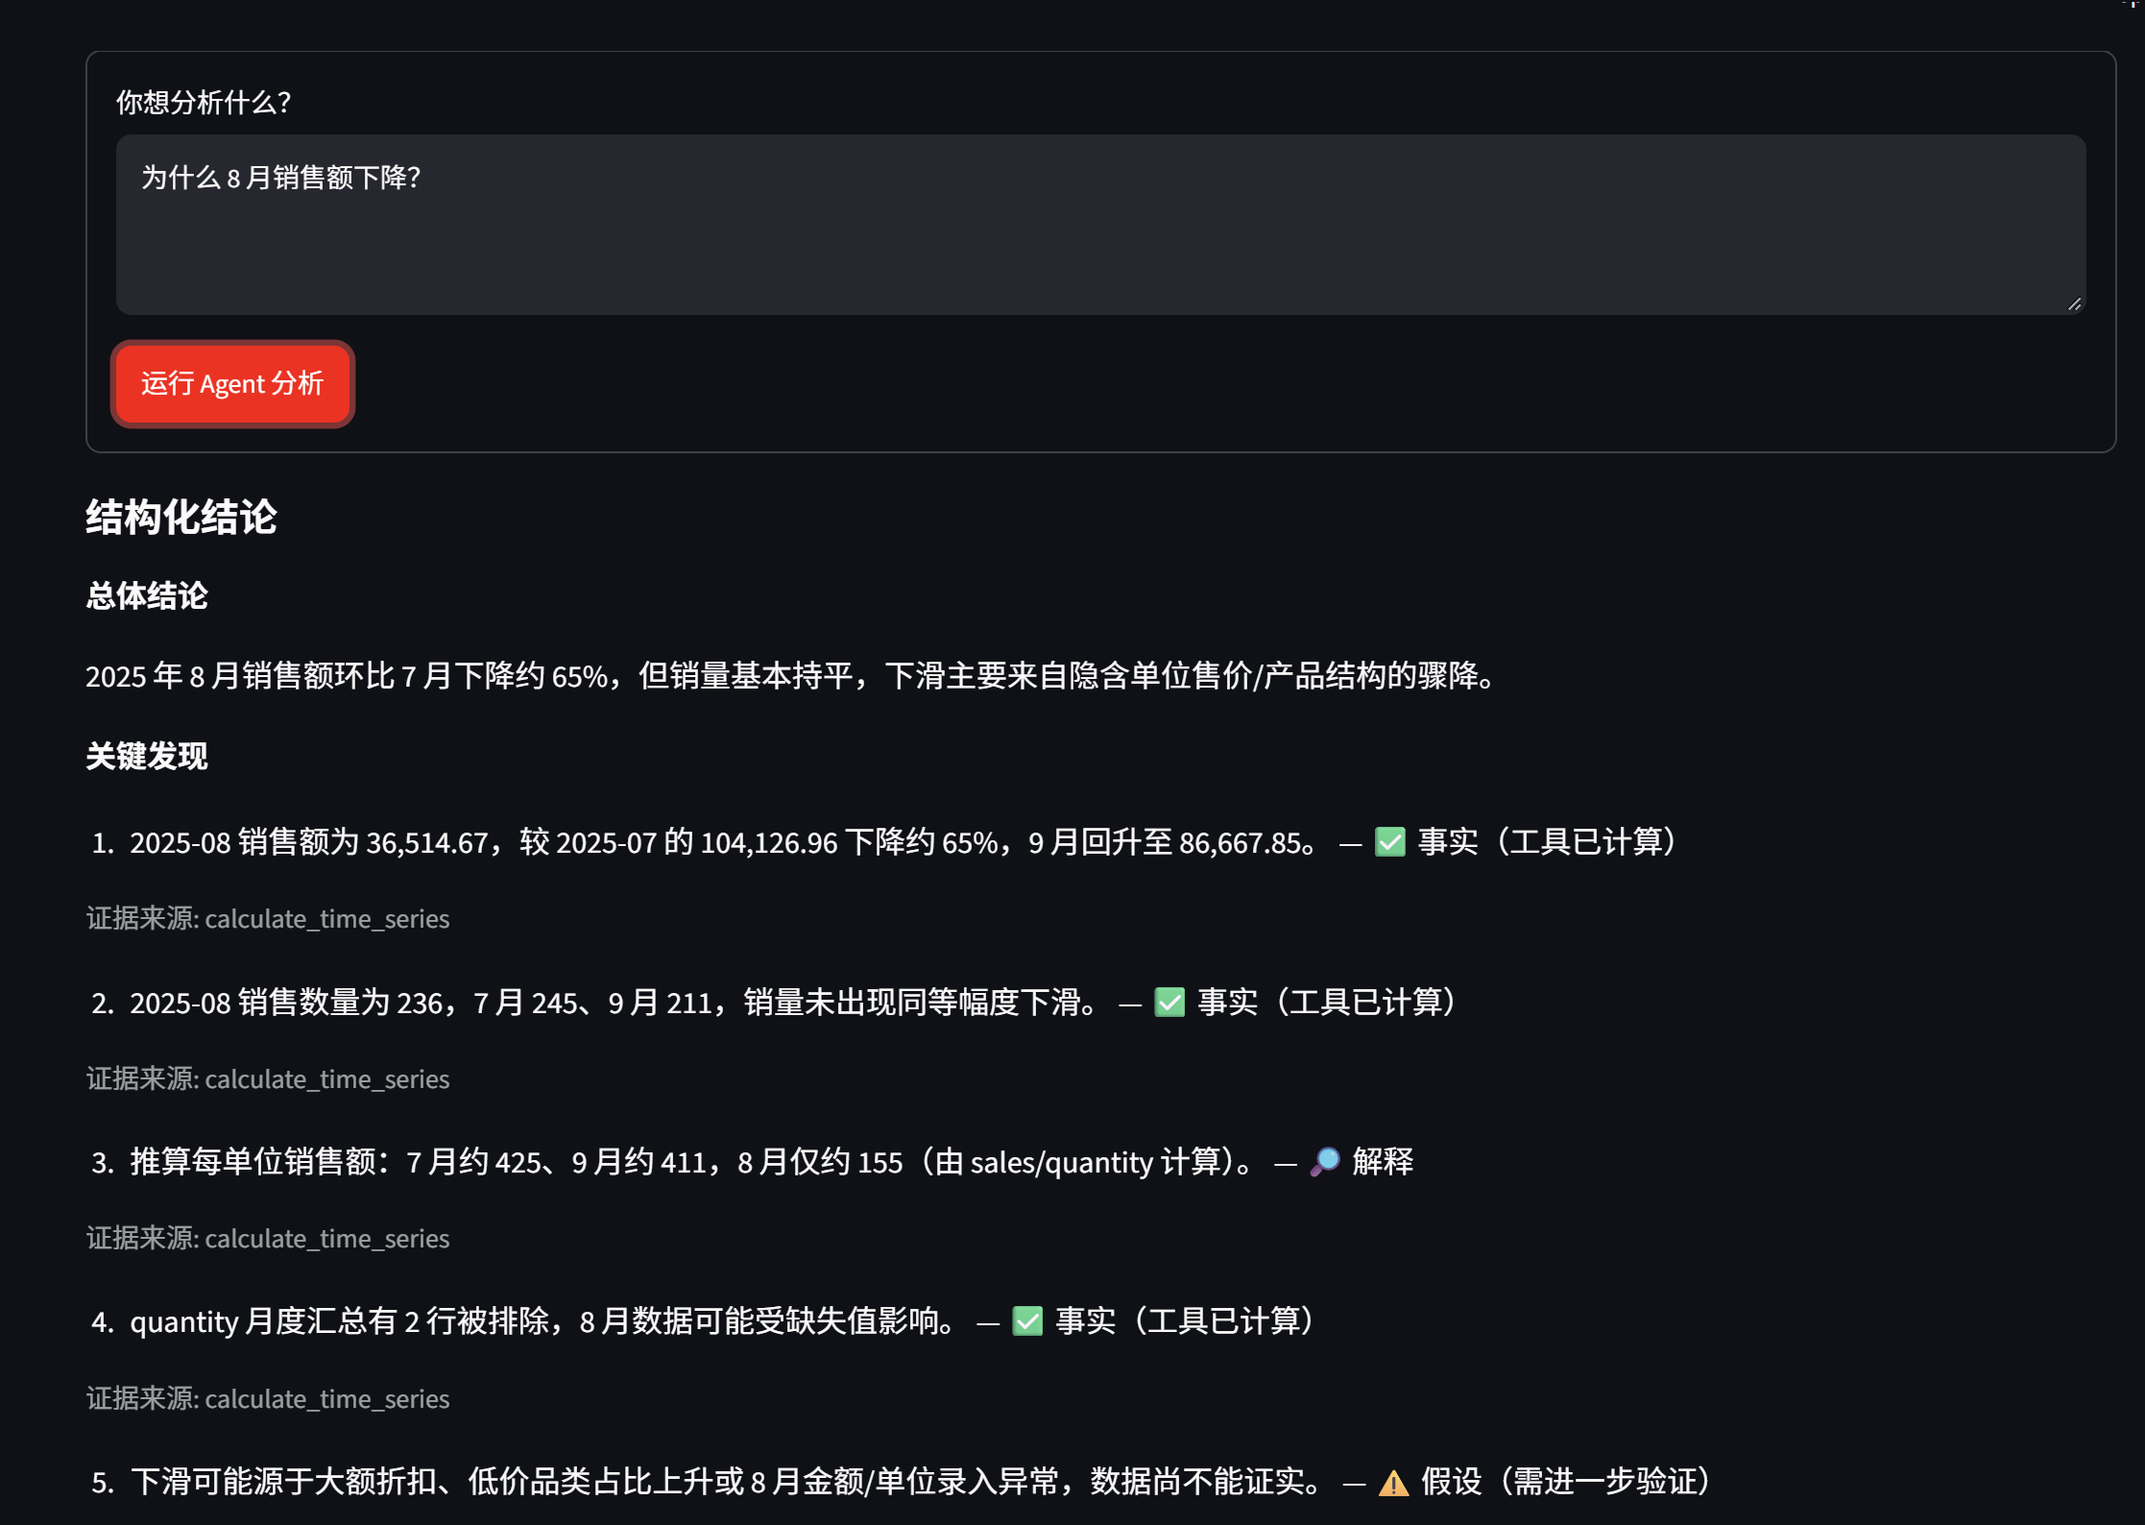
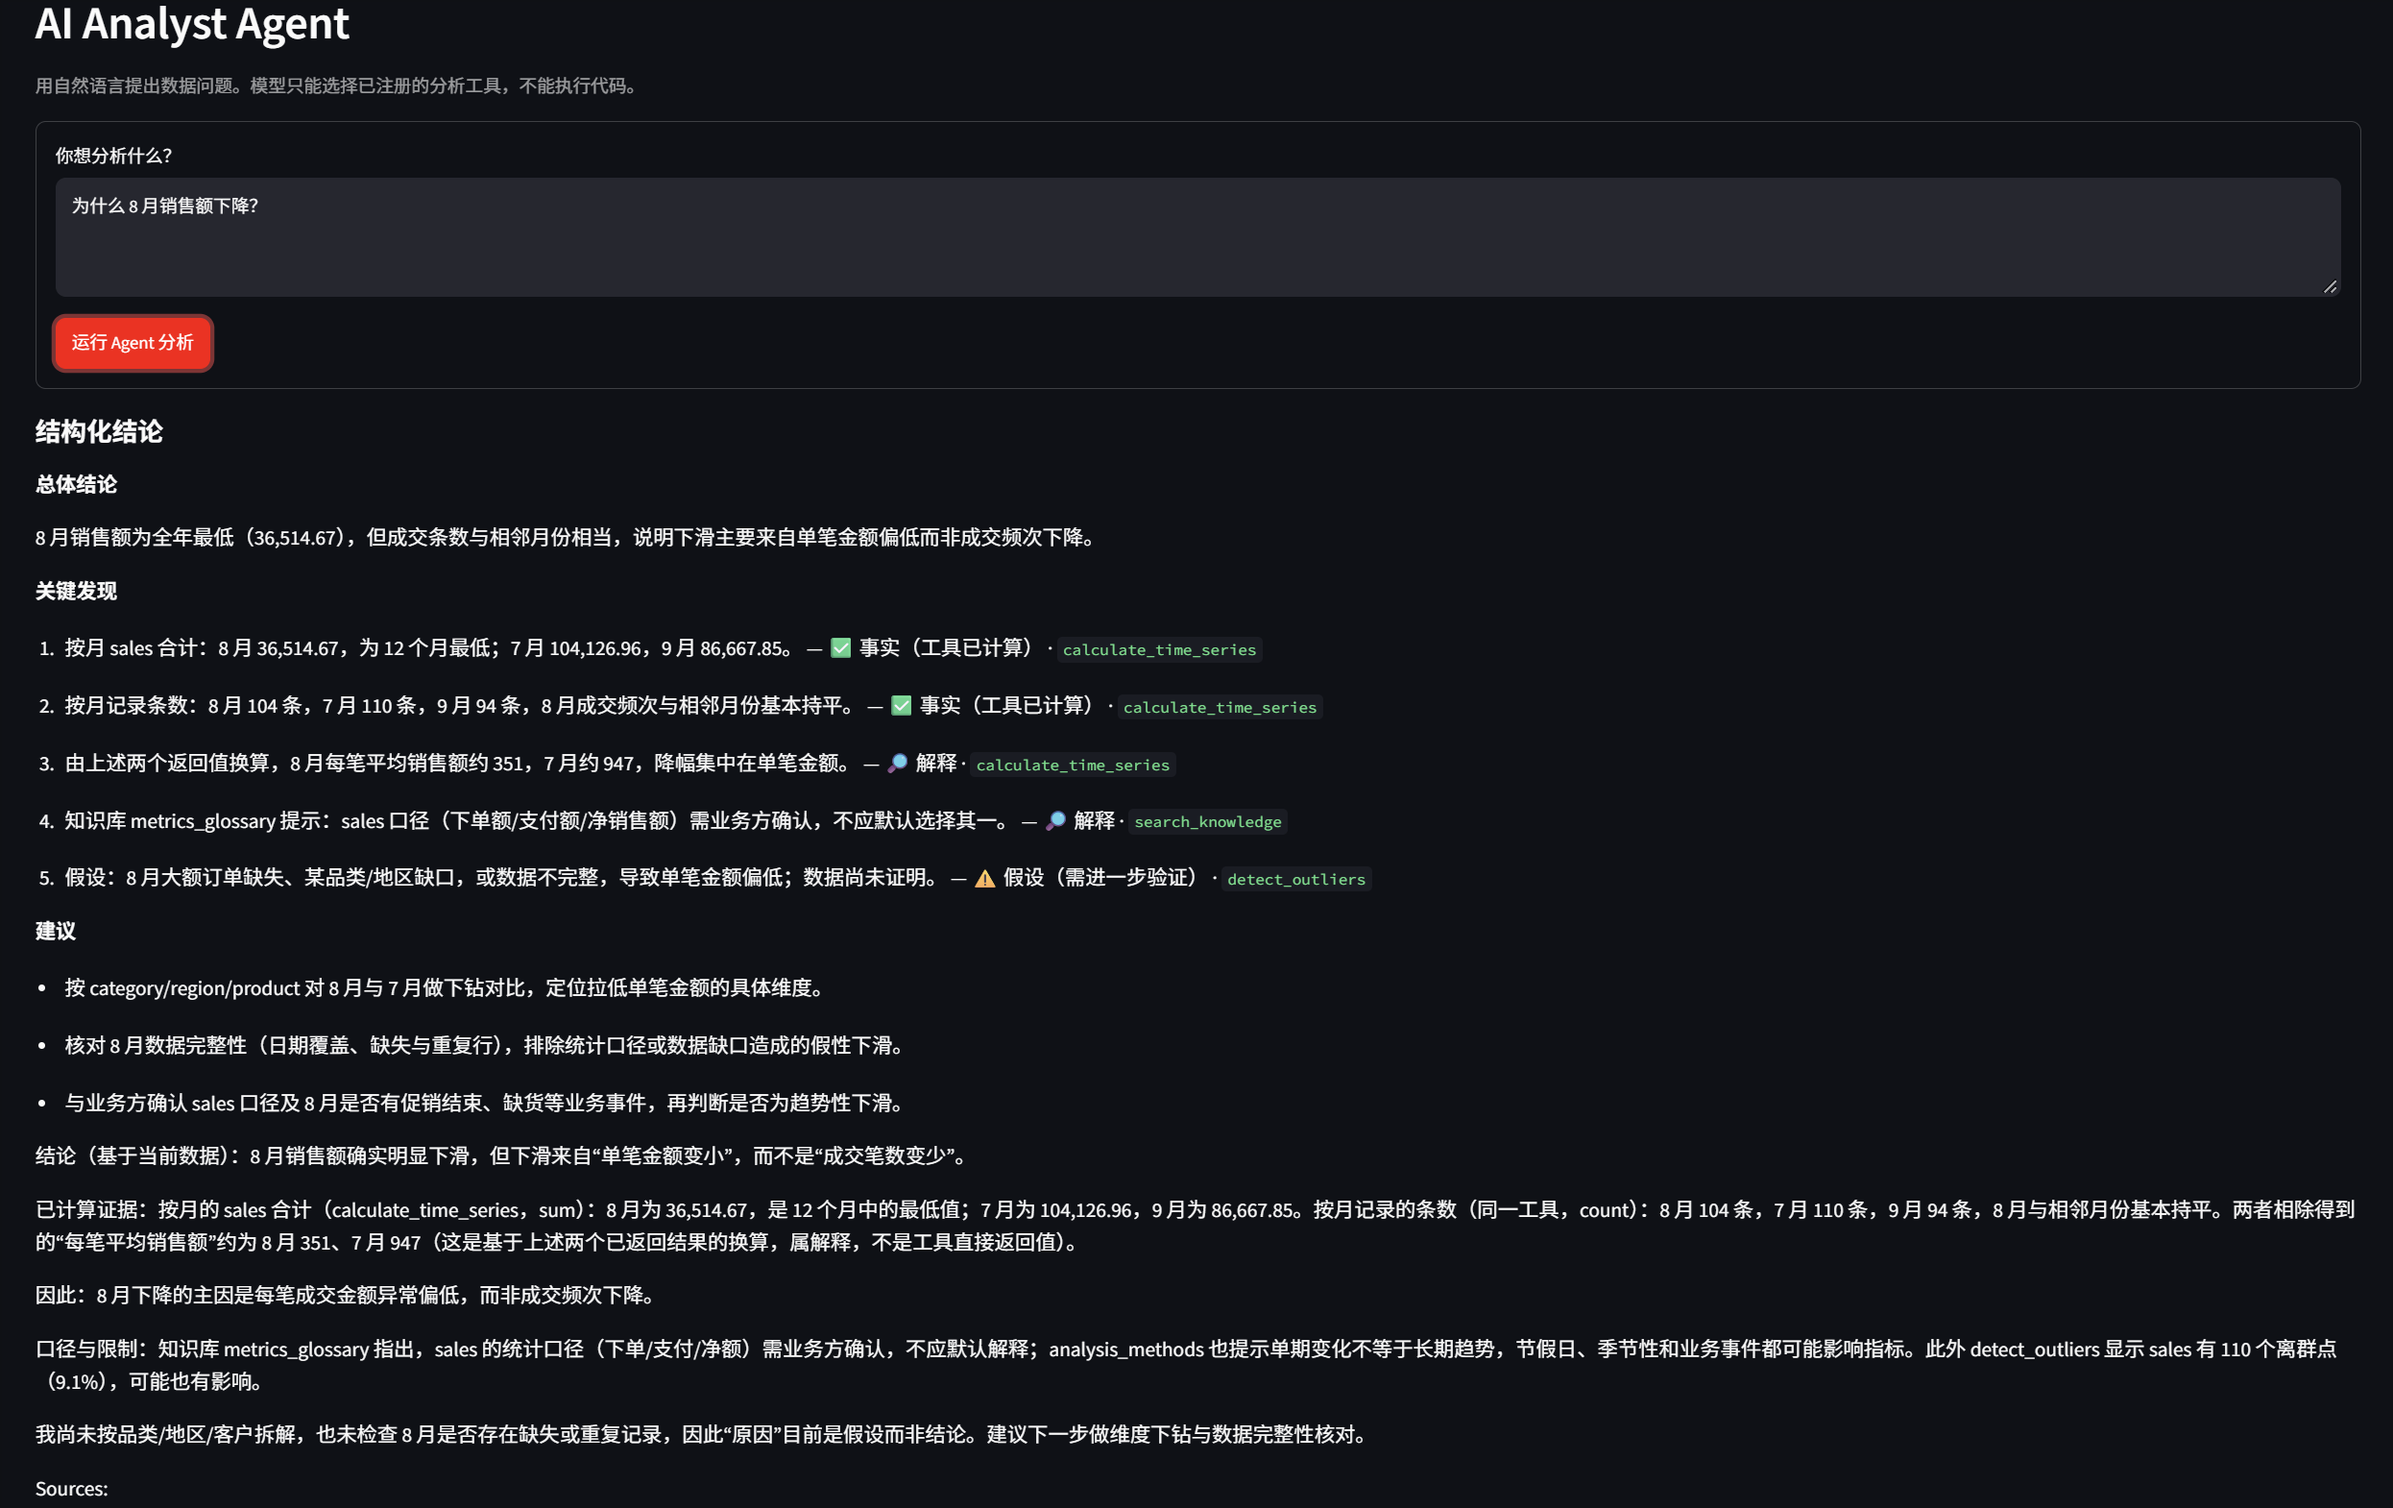
docs: use the real demo screenshots in the README
- demo.png: the structured conclusion for '为什么 8 月销售额下降？', showing the
  fact / interpretation / hypothesis badges with their evidence tool inline.
- demo-2.png: the same run's analysis steps, which document the tool allowlist in
  action, the arguments each call used, the retrieval sources with scores, and the
  duplicate-call reuse.
- The previous screenshot predated the inline evidence tool and the step arguments.

diff --git a/docs/images/README.md b/docs/images/README.md
@@ -6,11 +6,18 @@
 
 | 项目 | 建议 |
 |---|---|
-| 文件名 | `demo.png`（主截图）、需要时再加 `demo-2.png`、`demo-3.png` |
+| 文件名 | `demo.png`（主图：结构化结论）、`demo-2.png`（分析步骤）、需要时再加 `demo-3.png` |
 | 格式 | PNG |
-| 宽度 | 1600–1920 px（GitHub 正文最大宽度约 880 px，这个尺寸在高分屏上清晰） |
+| 宽度 | 1600–2500 px（GitHub 正文最大宽度约 880 px，这个尺寸在高分屏上清晰） |
 | 文件大小 | 单张 < 1 MiB（GitHub 仓库建议保持轻量） |
 | 内容 | 界面主体。截图前把窗口拉宽，确保"结构化结论"里的 ✅/🔎/⚠ 徽章看得清 |
+
+**当前两张图的用途：**
+
+| 文件 | 内容 | 放在 README 哪里 |
+|---|---|---|
+| `demo.png` | 提问"为什么 8 月销售额下降？"后的结构化结论（含徽章与证据工具） | 第一屏，标题下方 |
+| `demo-2.png` | 同一次运行的"分析步骤"（工具、参数、知识检索来源、重复调用复用） | Phase 6「Agent Loop」章节 |
 
 ## 截图怎么拍
 

diff --git a/README.md b/README.md
@@ -84,6 +84,10 @@ flowchart TD
 
 工具只从静态注册表中精确查找，模型不能通过工具名动态导入 Python 模块。每次工具选择、结果或最终回答形成可展示步骤摘要；摘要由应用生成，不保存模型内部推理过程。单元测试 Mock `LLMService`，不需要 Key 或外网。
 
+**执行过程是可审计的**——下面是一次真实运行的"分析步骤"：每一步显示调用了哪个白名单工具、**实际传入了什么参数**，以及知识检索命中了哪些来源和分数。第 6 步还能看到"参数相同的重复调用被识别并复用之前的结果"，而不是浪费一次决策。
+
+![Agent 分析步骤：工具、参数、知识来源与重复调用复用](docs/images/demo-2.png)
+
 ## Phase 7：LangSmith Observability
 
 LangSmith 是独立的可观测层，用来查看 Agent 决策步骤、模型调用耗时/Token 用量、工具名称、参数类型摘要、成功状态和结果行列数量。它不决定工具、不改变 Agent 结果，Trace 传输失败也不会中断分析。
